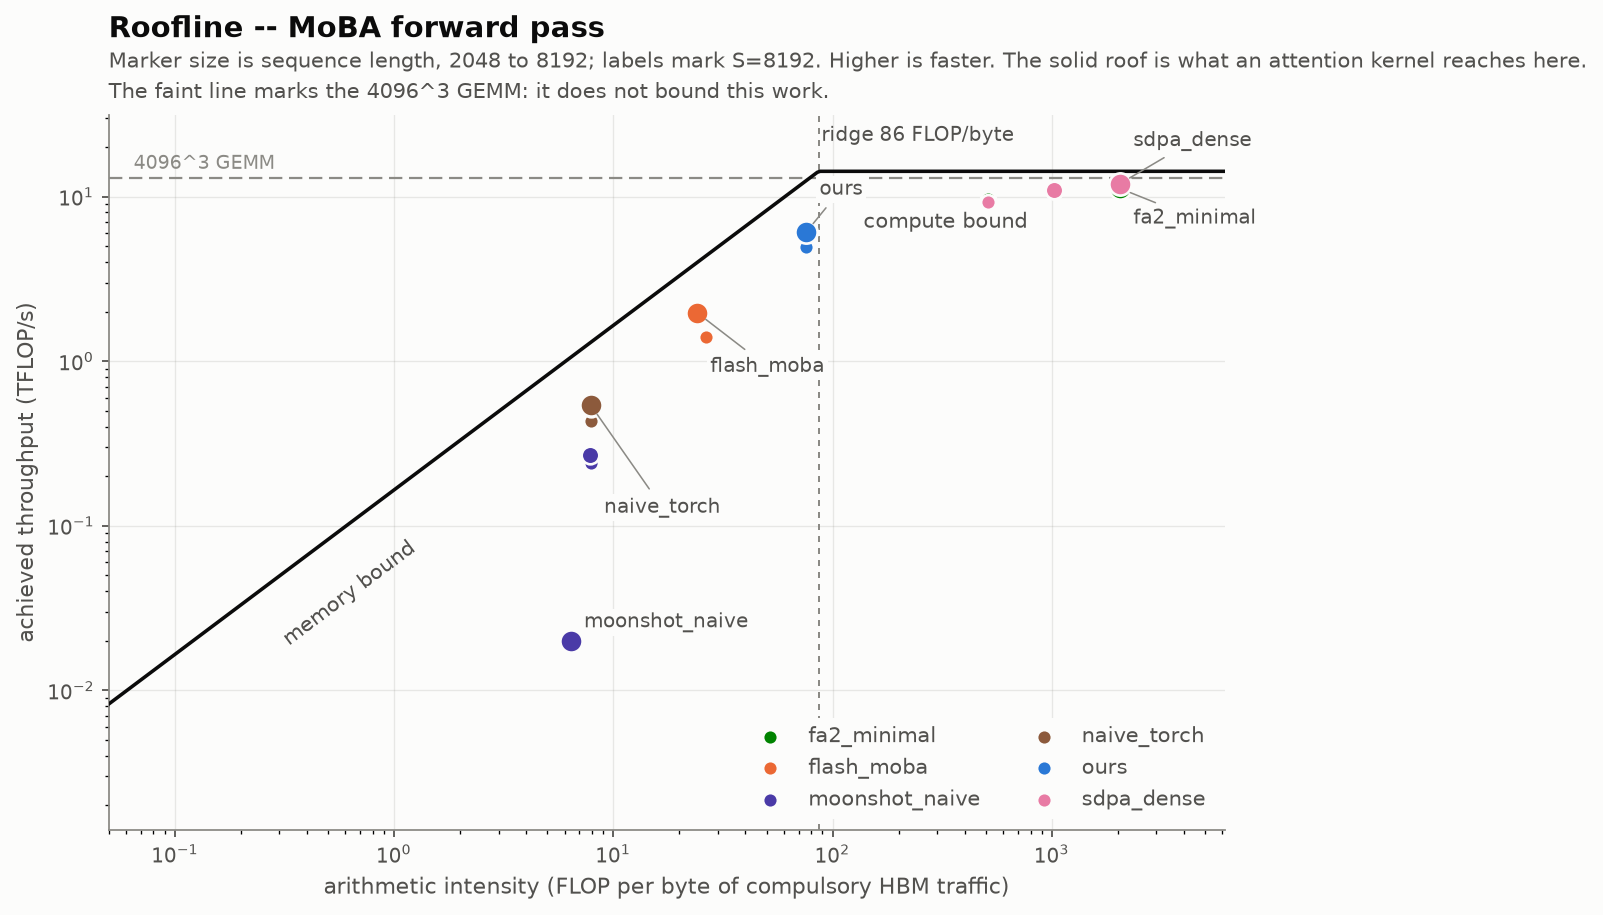
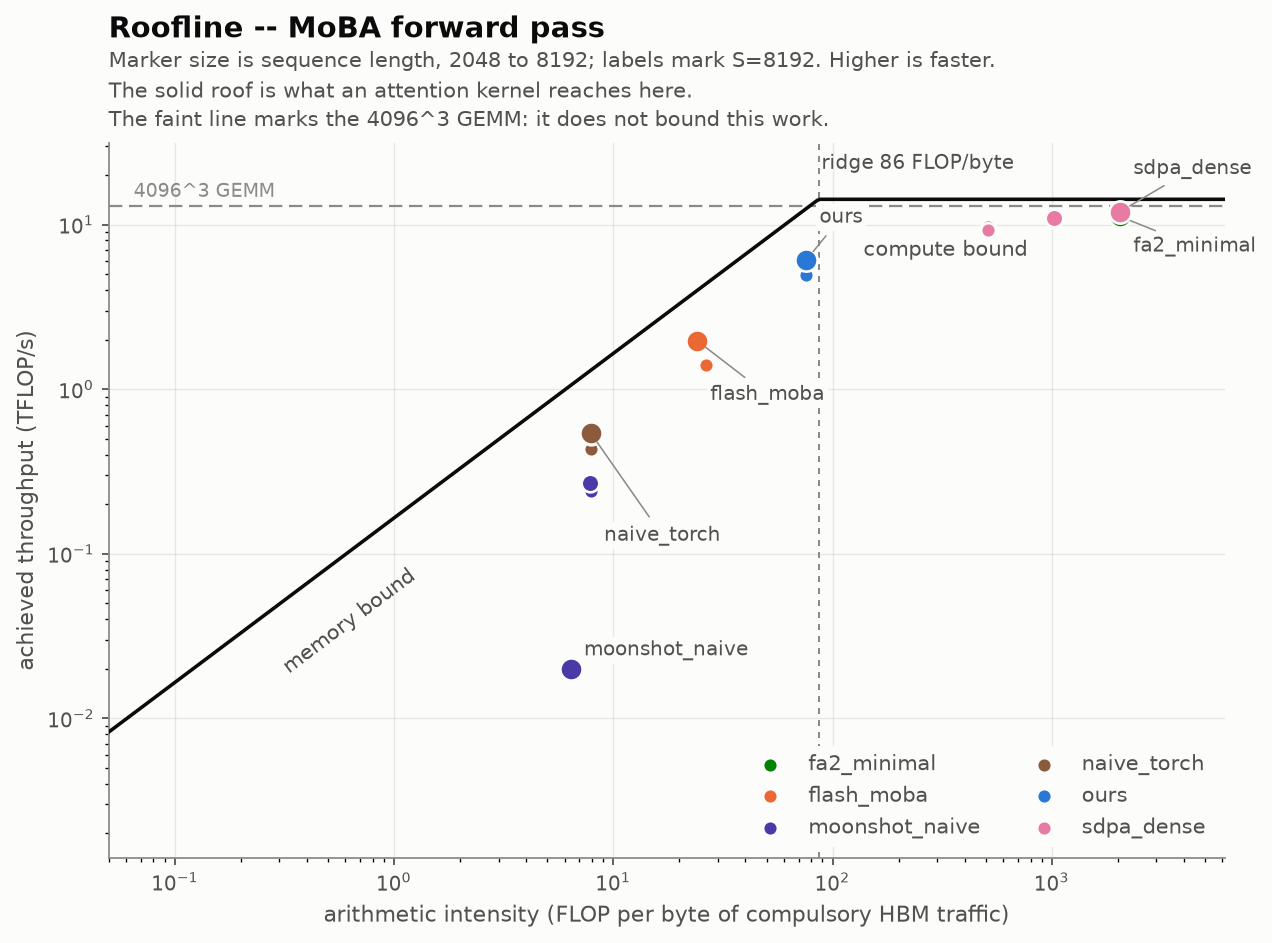
bench: rebuild the H100 roofline without the H100, and put all three in the README
The H100 roofline could not be redrawn: that session logged the profile table
and the byte breakdown but ended before `print_ceilings` ran, so the two
numbers positioning every roof on the card were never written down. The figure
kept its collided ridge label, its point labels over foreign markers, and a
subtitle naming lines it did not draw.

It turns out only one input to a roofline is measured. A `Point` carries flops,
traffic, intensity and ms; the first three are arithmetic this module already
computes from the shape, and only `ms` came off a GPU. Latencies for every
backend at every length are sitting in the committed sweep CSV, so the points
rebuild exactly, on any machine, for a card that no longer exists. New
`--from-data` does that, with `read_ceilings` and `points_from_data`.

The ceilings were recovered rather than guessed:

* Bandwidth is the measured 2297.8 GiB/s copy roof, already recorded in
  data/residual.json and quoted in docs/h100-results.md.
* The bf16 GEMM roof came from the ridge annotation on the original figure.
  ridge = roof / bandwidth is exact, so roof = 312 x 2297.8 GiB/s = 769.8
  TFLOP/s, the only error being the label's three significant figures: 0.16%.
  That is 77.8% of the 989.4 datasheet, the ordinary efficiency for a measured
  GEMM, and the rebuilt figure's ridge comes back out at 312.0.

Both live in data/roofline-ceilings.json, each beside the sentence justifying
[…]

diff --git a/bench/roofline.py b/bench/roofline.py
@@ -35,6 +35,7 @@ collecting.
 
 import argparse
 import dataclasses
+import json
 import math
 import os
 import time
@@ -43,7 +44,7 @@ from dataclasses import dataclass, field
 import torch
 import triton.testing
 
-from bench import paths, plots
+from bench import paths, plots, sweep_plot
 from bench.suite import (
     BYTES_PER_MIB,
     cool_down_device,
@@ -666,6 +667,32 @@ def _faint_note(drawn: list[str]) -> str:
             f"\nThe faint line marks {named}: it does not bound this work.")
 
 
+def _roof_note(c: Ceilings) -> str:
+    """Says what the solid roof actually is on this card.
+
+    This sentence used to be the constant "The solid roof is what an attention
+    kernel reaches here", which is only true when `attainable_flops` was
+    measured. Where it was not, `Ceilings.roof_flops` falls back to the 4096^3
+    GEMM, and the figure then claimed an attention-kernel ceiling while drawing
+    a matmul one. That is the same frozen-claim bug as the old `CAPTIONS` dict
+    in `bench/sweep_plot.py`: a sentence asserting something the data beside it
+    decides.
+
+    Args:
+        c: The ceilings being drawn.
+
+    Returns:
+        One or two sentences describing the solid roof, each opening with
+        a newline so the subtitle wraps instead of running off the canvas.
+    """
+    if c.attainable_flops:
+        return "\nThe solid roof is what an attention kernel reaches here."
+    return (f"\nThe solid roof is a measured {MATMUL_N}^3 GEMM, standing in "
+            "for a tile-shape roof this card never measured, so it overstates."
+            "\nIt bounds nothing below: every MoBA point here is memory bound, "
+            "read against the slanted roof.")
+
+
 def plot(points: list[Point], c: Ceilings, path: str) -> str:
     """Draws the roofline: attainable FLOP/s against arithmetic intensity."""
     fig, ax = plots.figure(width=9.0, height=5.8)
@@ -774,8 +801,7 @@ def plot(points: list[Point], c: Ceilings, path: str) -> str:
         (f"S = {biggest}. " if min(p.seq_len for p in points) == biggest else
          f"Marker size is sequence length, {min(p.seq_len for p in points)} to "
          f"{biggest}; labels mark S={biggest}. ") +
-        "Higher is faster. The solid roof is what an attention kernel reaches "
-        "here." + _faint_note(faint),
+        "Higher is faster." + _roof_note(c) + _faint_note(faint),
         "arithmetic intensity (FLOP per byte of compulsory HBM traffic)",
         "achieved throughput (TFLOP/s)")
     # Masked, because the ridge is vertical and lands inside a lower-right
@@ -831,9 +857,27 @@ def main() -> None:
     parser.add_argument("--from-log", default=None,
                         help="redraw a finished run's log instead of "
                              "measuring; needs no GPU")
+    parser.add_argument("--from-data", action="store_true",
+                        help="rebuild from this card's sweep CSV and "
+                             "data/roofline-ceilings.json, for a card whose "
+                             "roofline run was never logged; needs no GPU")
     paths.add_card_argument(parser)
     args = parser.parse_args()
     seq_lens = [int(x) for x in args.seq_lens.split(",")]
+
+    if args.from_data:
+        ceilings, device_name = read_ceilings(args.card)
+        ceilings = _with_extra_ceilings(ceilings, args.attainable_tflops,
+                                        device_name)
+        points = points_from_data(args.card, seq_lens)
+        print_ceilings(ceilings, device_name)
+        print_table(points, ceilings)
+        print_breakdown(points, max(p.seq_len for p in points))
+        out = args.out or os.path.join(
+            paths.card_dir(args.card, "figures", create=True), "roofline.png")
+        print()
+        print(f"wrote {plot(points, ceilings, out)}")
+        return
 
     if args.from_log:
         points, ceilings, device_name = parse_log(args.from_log)
@@ -888,6 +932,106 @@ def main() -> None:
 # ---------------------------------------------------------------------------
 # Replotting a finished run
 # ---------------------------------------------------------------------------
+
+
+def read_ceilings(card: str | None = None) -> tuple[Ceilings, str]:
+    """Loads a card's measured ceilings from `data/roofline-ceilings.json`.
+
+    WHY A FILE AND NOT A FLAG. `--from-log` recovers the ceilings from a run's
+    own log, which is the right source when a log exists. The H100's does not:
+    `logs/profile-roofline.log` captured the profile table and the byte
+    breakdown, and the run ended before the ceiling table was printed, so the
+    two numbers that position every roof on that card were never written down
+    anywhere. They are recoverable, but only by argument, and an argument that
+    has to be retyped on a command line is one that will eventually be retyped
+    wrong. The JSON carries the values and, beside each, the sentence that
+    justifies it.
+
+    Args:
+        card: Directory name such as "sm90-h100"; the local card when None.
+
+    Returns:
+        The ceilings, and the device name they belong to.
+
+    Raises:
+        FileNotFoundError: If the card has no recorded ceilings.
+    """
+    path = os.path.join(paths.card_dir(card, "data"), "roofline-ceilings.json")
+    with open(path, encoding="utf-8") as fh:
+        spec = json.load(fh)
+    attainable = spec.get("attainable_tflops")
+    return Ceilings(
+        bandwidth=spec["bandwidth_gibs"] * BYTES_PER_GIB,
+        peak_flops=spec["peak_tflops"] * 1e12,
+        attainable_flops=attainable * 1e12 if attainable else None,
+    ), spec.get("device", "")
+
+
+def points_from_data(card: str | None, seq_lens: list[int],
+                     cfg: MoBAConfig = CFG) -> list[Point]:
+    """Rebuilds a card's roofline points from its committed sweep CSV.
+
+    WHY THIS IS NOT A SECOND MEASUREMENT. A `Point` carries four things, and
+    three of them are arithmetic: `flops` is counted from the shape, `traffic`
+    is the analytic model in this module, and `intensity` is their ratio. Only
+    `ms` was ever measured. The sweep CSV holds `ms` for every backend at every
+    sequence length, so a roofline can be rebuilt from it exactly, on any
+    machine, for a card that no longer exists.
+
+    HOW FAR THE LATENCIES CAN BE TRUSTED. They come from a different run than
+    the original roofline's, so they carry that run's noise rather than this
+    one's. Checked against the A100, where both a logged roofline and a sweep
+    CSV survive, the two disagree by 1 to 6 percent at S=8192 -- ordinary
+    run-to-run variation, and a fraction of a marker's width on an axis
+    spanning five decades.
+
+    WHICH SOURCE TO PREFER, WHICH IS NOT SIMPLY "THE LOG". `--from-log` replays
+    a run's own derived values, so its latencies and its intensities come from
+    one session. But intensity is a *model* output, and the model is code that
+    has since changed: the A100's log places `flash_moba` at 186.2 FLOP/byte,
+    from a traffic model that has since been replaced by one counting its
+    window reloads and fp32 round trip, which puts it at 24.1. Replaying that
+    log redraws the old model's answer. This path recomputes traffic with the
+    model in the tree and pays for it with latencies from a different session.
+
+    So: prefer `--from-log` when the log was written by roughly the current
+    model, as the 3050 Ti's was, and this when it was not, as for the A100, or
+    when there is no ceiling table at all, as for the H100.
+
+    Backends with no traffic model are skipped rather than placed by a model
+    known to be wrong, which is why `triton_moba` and `moonshot_efficient` do
+    not appear.
+
+    Args:
+        card: Directory name such as "sm90-h100"; the local card when None.
+        seq_lens: Sequence lengths to place. Ones absent from the CSV are
+            skipped.
+        cfg: The MoBA configuration the sweep was run at.
+
+    Returns:
+        One `Point` per (backend, sequence length) that has both a latency and
+        a traffic model, ordered by sequence length then backend.
+    """
+    seqs, series = sweep_plot.read_sweep(card, "fwd")
+    index = {int(s): i for i, s in enumerate(seqs)}
+    points = []
+    for seq_len in seq_lens:
+        if seq_len not in index:
+            continue
+        row = index[seq_len]
+        for name in sorted(series):
+            ms = series[name][row]
+            if ms is None:
+                continue
+            traffic = model_traffic(name, BATCH, seq_len, HEADS, HEAD_DIM, cfg)
+            if traffic is None:
+                continue
+            points.append(Point(
+                name=name, seq_len=seq_len, ms=ms,
+                flops=flops_performed(name, BATCH, seq_len, HEADS, HEAD_DIM,
+                                      cfg),
+                traffic=traffic))
+    return points
 
 
 def parse_log(path: str) -> tuple[list[Point], Ceilings, str]:

diff --git a/results/sm90-h100/README.md b/results/sm90-h100/README.md
@@ -54,7 +54,25 @@ int64 (`04236d3`); full details in `docs/deferred-decisions.md` DD-2a.
   B=4 H=32 S=65536, the 16 GiB shape that crashed before the int64 fix
   (`04236d3`). Re-run after the fix, it now measures 3.50x.
 * Panel A never made it into a JSON; it lives in `logs/residual-ab.log`.
-* `figures/roofline.png` — the first roofline with a real Hopper roof
+* `figures/roofline.png` — the first roofline with a real Hopper roof.
+  **Rebuilt 2026-09-22 without the card**, because this session never logged
+  its ceiling table: `logs/profile-roofline.log` holds the profile and the byte
+  breakdown, and the run ended before `print_ceilings` ran. `bench/roofline.py
+  --from-data` rebuilds it from `data/moba-fwd.csv` (the only measured input a
+  point needs is its latency; FLOPs and traffic are analytic) plus
+  `data/roofline-ceilings.json`. Re-run it with
+  `uv run python -m bench.roofline --from-data --card sm90-h100`.
+* `data/roofline-ceilings.json` — the two ceilings, with the sentence that
+  justifies each. Bandwidth is the measured 2297.8 GiB/s copy roof already
+  recorded in `data/residual.json`. The bf16 GEMM roof was recovered as
+  `ridge x bandwidth` from the ridge annotation on the original figure, which
+  is exact arithmetic against a label printed to three significant figures, so
+  ±0.16%. It lands at 769.8 TFLOP/s, 77.8% of the 989.4 datasheet, and the
+  rebuilt figure's ridge comes back out at 312.0 FLOP/byte, matching the
+  annotation it was derived from. The same reconstruction run against the A100,
+  which kept both a log and a CSV, reproduces that card's logged ceilings and
+  every arithmetic intensity exactly, with latencies differing by 1 to 6%.
+* `logs/roofline-from-data.log` — that rebuild's output
 * `logs/int32-overflow.log` / `-after-fix.log` — DD-2a
 * `logs/ab-backward-config.log`, `logs/ab-forward-group.log` — the A/B that corrected the table
 

diff --git a/README.md b/README.md
@@ -166,6 +166,36 @@ details the paper leaves open, such as tie-breaking and whether a query's own
 block consumes a `top_k` slot. The reasoning is in
 [`src/moba/config.py`](src/moba/config.py).
 
+## Where the kernel is pinned
+
+A roofline places each implementation by how much arithmetic it does per byte
+it moves. Left of the ridge a kernel is limited by memory and cannot go faster
+without moving fewer bytes, however well it is written.
+
+![Roofline on the H100: every MoBA implementation sits left of the ridge, memory bound](results/sm90-h100/figures/roofline.png)
+
+Every MoBA implementation is far left of the ridge, so this is a memory-bound
+problem and the design was built on that assumption. The useful comparison is
+between the two sparse kernels at S=8192:
+
+| | arithmetic intensity | achieved | its own roof | fraction reached |
+|---|---:|---:|---:|---:|
+| ours | 75.8 FLOP/byte | 32.1 TFLOP/s | 187.0 | 17% |
+| FlashMoBA | 24.1 FLOP/byte | 10.7 TFLOP/s | 59.5 | 18% |
+
+Both reach about the same fraction of the ceiling their own position allows.
+Neither is running the machine harder than the other. The entire lead is the
+position on the x axis: ours needs 3.14x fewer bytes for the same work, and
+3.14x is exactly the byte ratio the residual analysis reports independently at
+this length ([`docs/why-we-beat-flashmoba.md`](docs/why-we-beat-flashmoba.md)).
+
+That is worth stating plainly, because it is the claim the whole design rests
+on. The win is not better tuning. It is that a program owning a key block asks
+for less memory than a program owning a query tile.
+
+The A100 and the 3050 Ti tell the same story at different scales, in
+`results/<card>/figures/roofline.png`.
+
 ## Scope
 
 This is a learning project, and the numbers above come with three limits.

diff --git a/results/sm80-a100/README.md b/results/sm80-a100/README.md
@@ -30,7 +30,7 @@ from.
 | `logs/dip-stages.log` | `docs/why-we-beat-flashmoba.md` §2 — 247,808 pairs, cross-checking `tile_census` |
 | `logs/dip-overhead.log` | `docs/a100-results.md:63` — the small-S dip |
 | `logs/twopass.log`, `logs/pass2.log` | `docs/a100-results.md:9` — raw session logs |
-| `logs/roofline.log` | `docs/a100-results.md:339` — `figures/roofline.png` was regenerated from it |
+| `logs/roofline.log` | `docs/a100-results.md:339`. It no longer draws `figures/roofline.png`: this log predates the FlashMoBA traffic model that counts window reloads, so replaying it places `flash_moba` at the superseded 186.2 FLOP/byte instead of 24.1. The figure is now built by `--from-data`, which recomputes traffic with the current model. |
 | `logs/65k.log` | `docs/block-size-results.md:165` — block_size=32 at 2048 columns |
 | `logs/block-sweep.log` | `docs/superpowers/plans/2026-09-14-block-size-sweep.md` |
 
@@ -38,7 +38,9 @@ from.
 
 `data/residual-b.json` (second residual run), `data/tabled-*.csv` (tuned-table
 confirmation), `figures/roofline-alt.png` (a second render from this session;
-`figures/roofline.png` is the one the docs cite), `figures/moba-*.png`,
+`figures/roofline.png` is the one the docs cite, and since the
+2026-09-22 rebuild the two are byte-identical, so this one can go
+whenever someone decides to), `figures/moba-*.png`,
 `figures/results.html` (84 bytes of `<img>` tags `triton.testing` writes next
 to its CSVs), and the session logs `last`, `occ`, `passA`, `passB`, `sweep`,
 `fairness`, `65k-recovery`.
